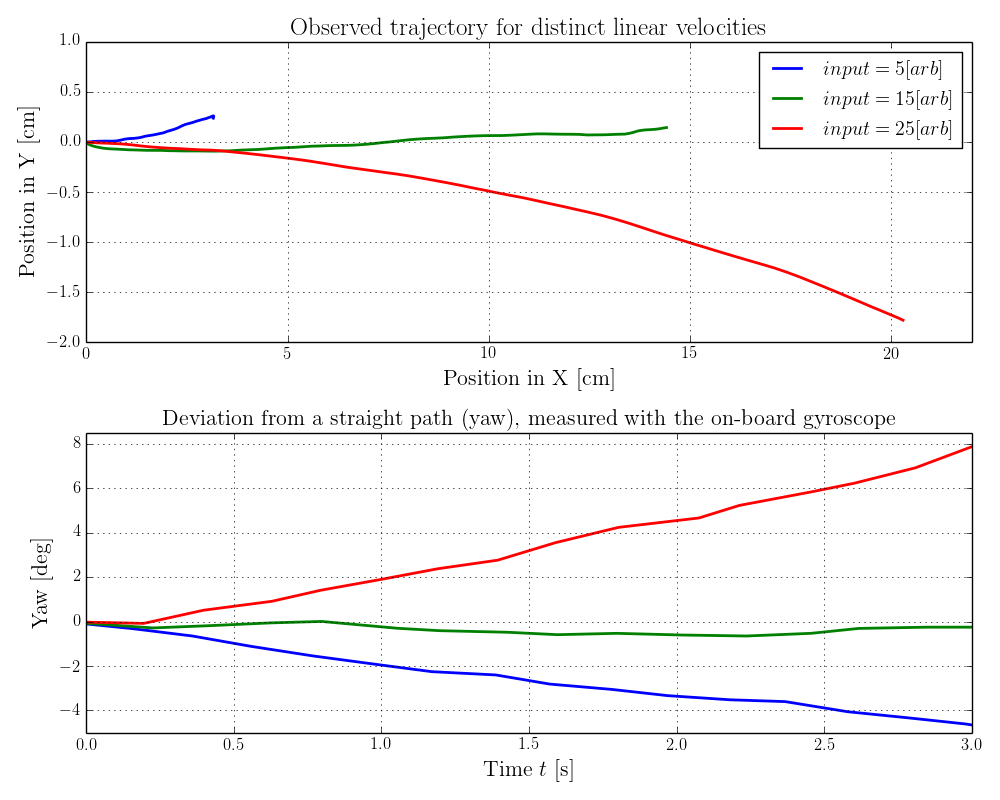
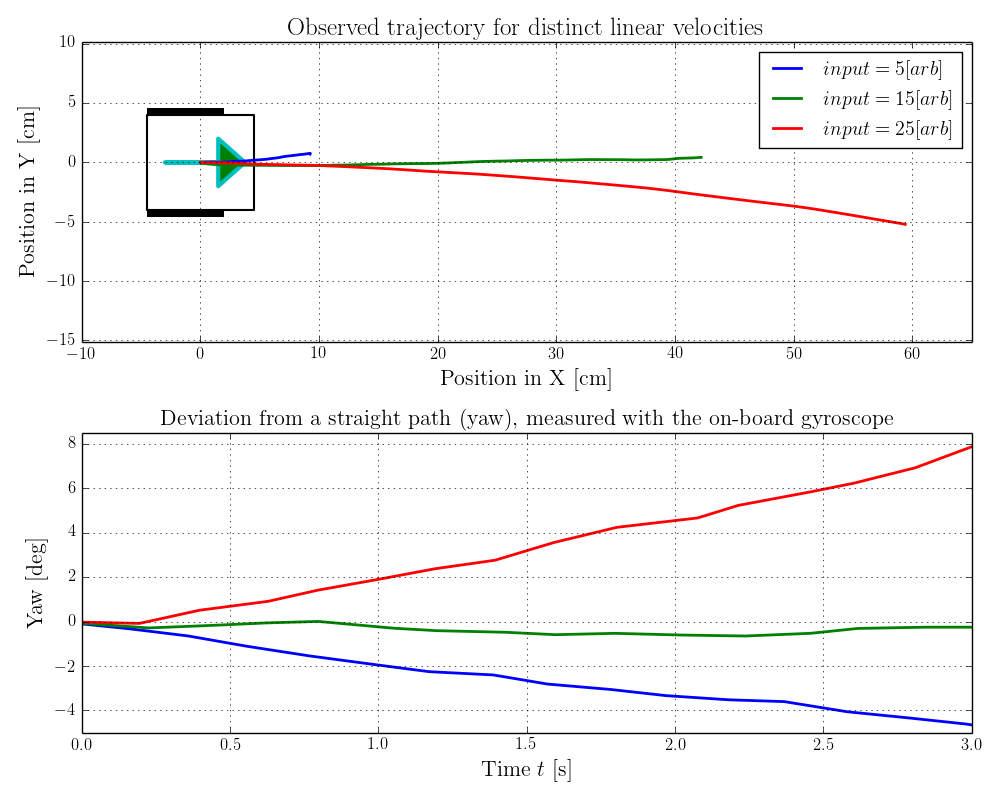
Added robot diagram as a scale reference

diff --git a/Software/MarkerTracker/plot_results.py b/Software/MarkerTracker/plot_results.py
@@ -20,6 +20,9 @@ f, ax = subplots(2, figsize=(10,8))
 #ax[0].plot([0,22],[0,0],'--k')
 #ax[1].plot([0,3.5],[0,0],'--k')
 
+
+real_length = 60.
+
 labels = ["$input = 5 [arb]$","$input = 15 [arb]$","$input = 25 [arb]$"]
 i = 0
 for fileName in ["yawLog5","yawLog15","yawLog25"]:
@@ -31,8 +34,8 @@ for fileName in ["yawLog5","yawLog15","yawLog25"]:
     pos[:,0] -= pos[0,0]
     pos[:,1] -= pos[0,1]
     
-    pos[:,0] *= 20.5/1425.
-    pos[:,1] *= 20.5/1425.
+    pos[:,0] *= real_length/1425.
+    pos[:,1] *= real_length/1425.
     
     prevX = 0
     prevY = 0
@@ -56,9 +59,9 @@ for fileName in ["yawLog5","yawLog15","yawLog25"]:
     i += 1
 
 
-ax[0].set_ylim([-2,1])
-#ax[0].axis('equal')
-ax[0].set_xlim([0,22])
+ax[0].set_ylim([-10,10])
+ax[0].axis('equal')
+ax[0].set_xlim([-10,real_length+5])
 ax[0].set_ylabel('Position in Y [cm]', fontsize=16)
 ax[0].set_xlabel('Position in X [cm]', fontsize=16)
 ax[1].set_ylabel('Yaw [deg]', fontsize=16)
@@ -74,6 +77,27 @@ ax[0].legend()
 
 ax[0].grid(True)
 ax[1].grid(True)
+
+
+
+def drawRobot(ax,wheel_type):
+    dimX = 9.
+    dimY = 8.
+    # Chassis
+    ax.add_patch(Rectangle((-dimX/2.,-dimY/2.),dimX,dimY,linewidth=1.5, fc='w', ec='k'))
+    # Wheels
+    Dr = 6.5
+    Dl = 6.5
+    if wheel_type == "larger left":
+        Dl += 1
+    elif wheel_type == "larger right":
+        Dr += 1
+    ax.add_patch(Rectangle((-dimX/2.,dimY/2.),Dr,0.6,linewidth=0, fc='k', ec='k'))
+    ax.add_patch(Rectangle((-dimX/2.,-dimY/2.-0.6),Dl,0.6,linewidth=0, fc='k', ec='k'))
+    
+    ax.arrow(-dimX/3., 0, dimX/2., 0, head_width=dimY/2., head_length=dimX/4.,linewidth=3, fc='g', ec='c')
+
+drawRobot(ax[0], "same")
 
 
 
